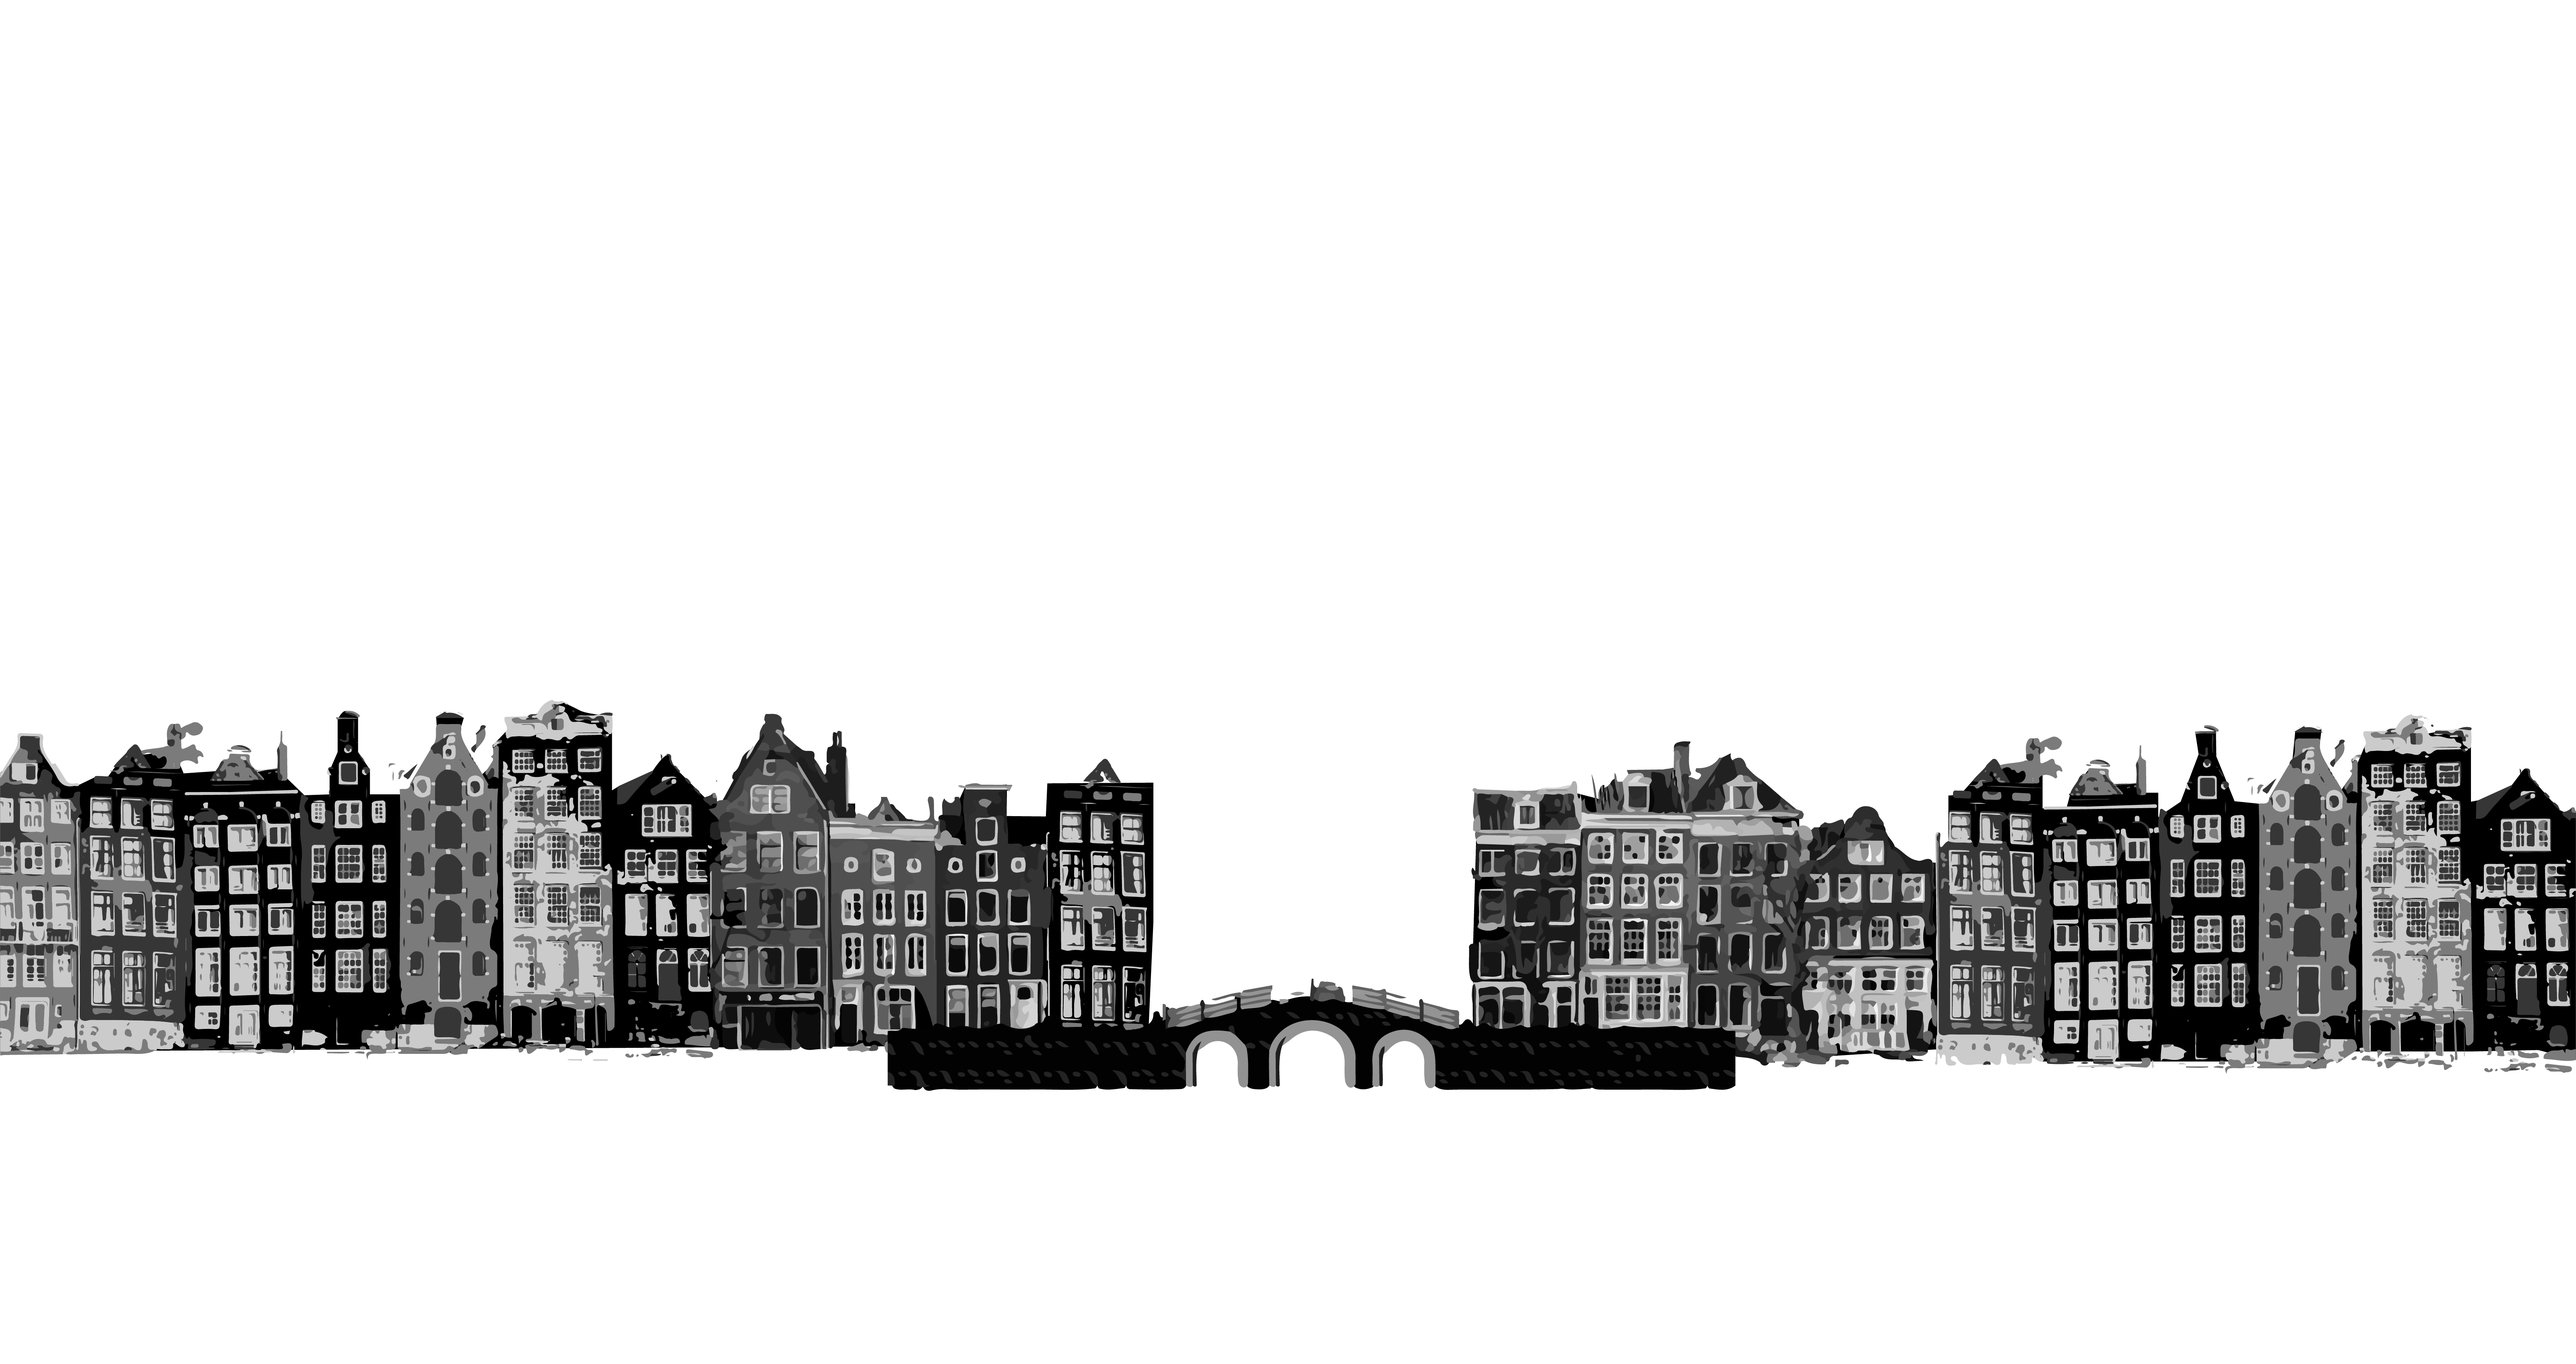
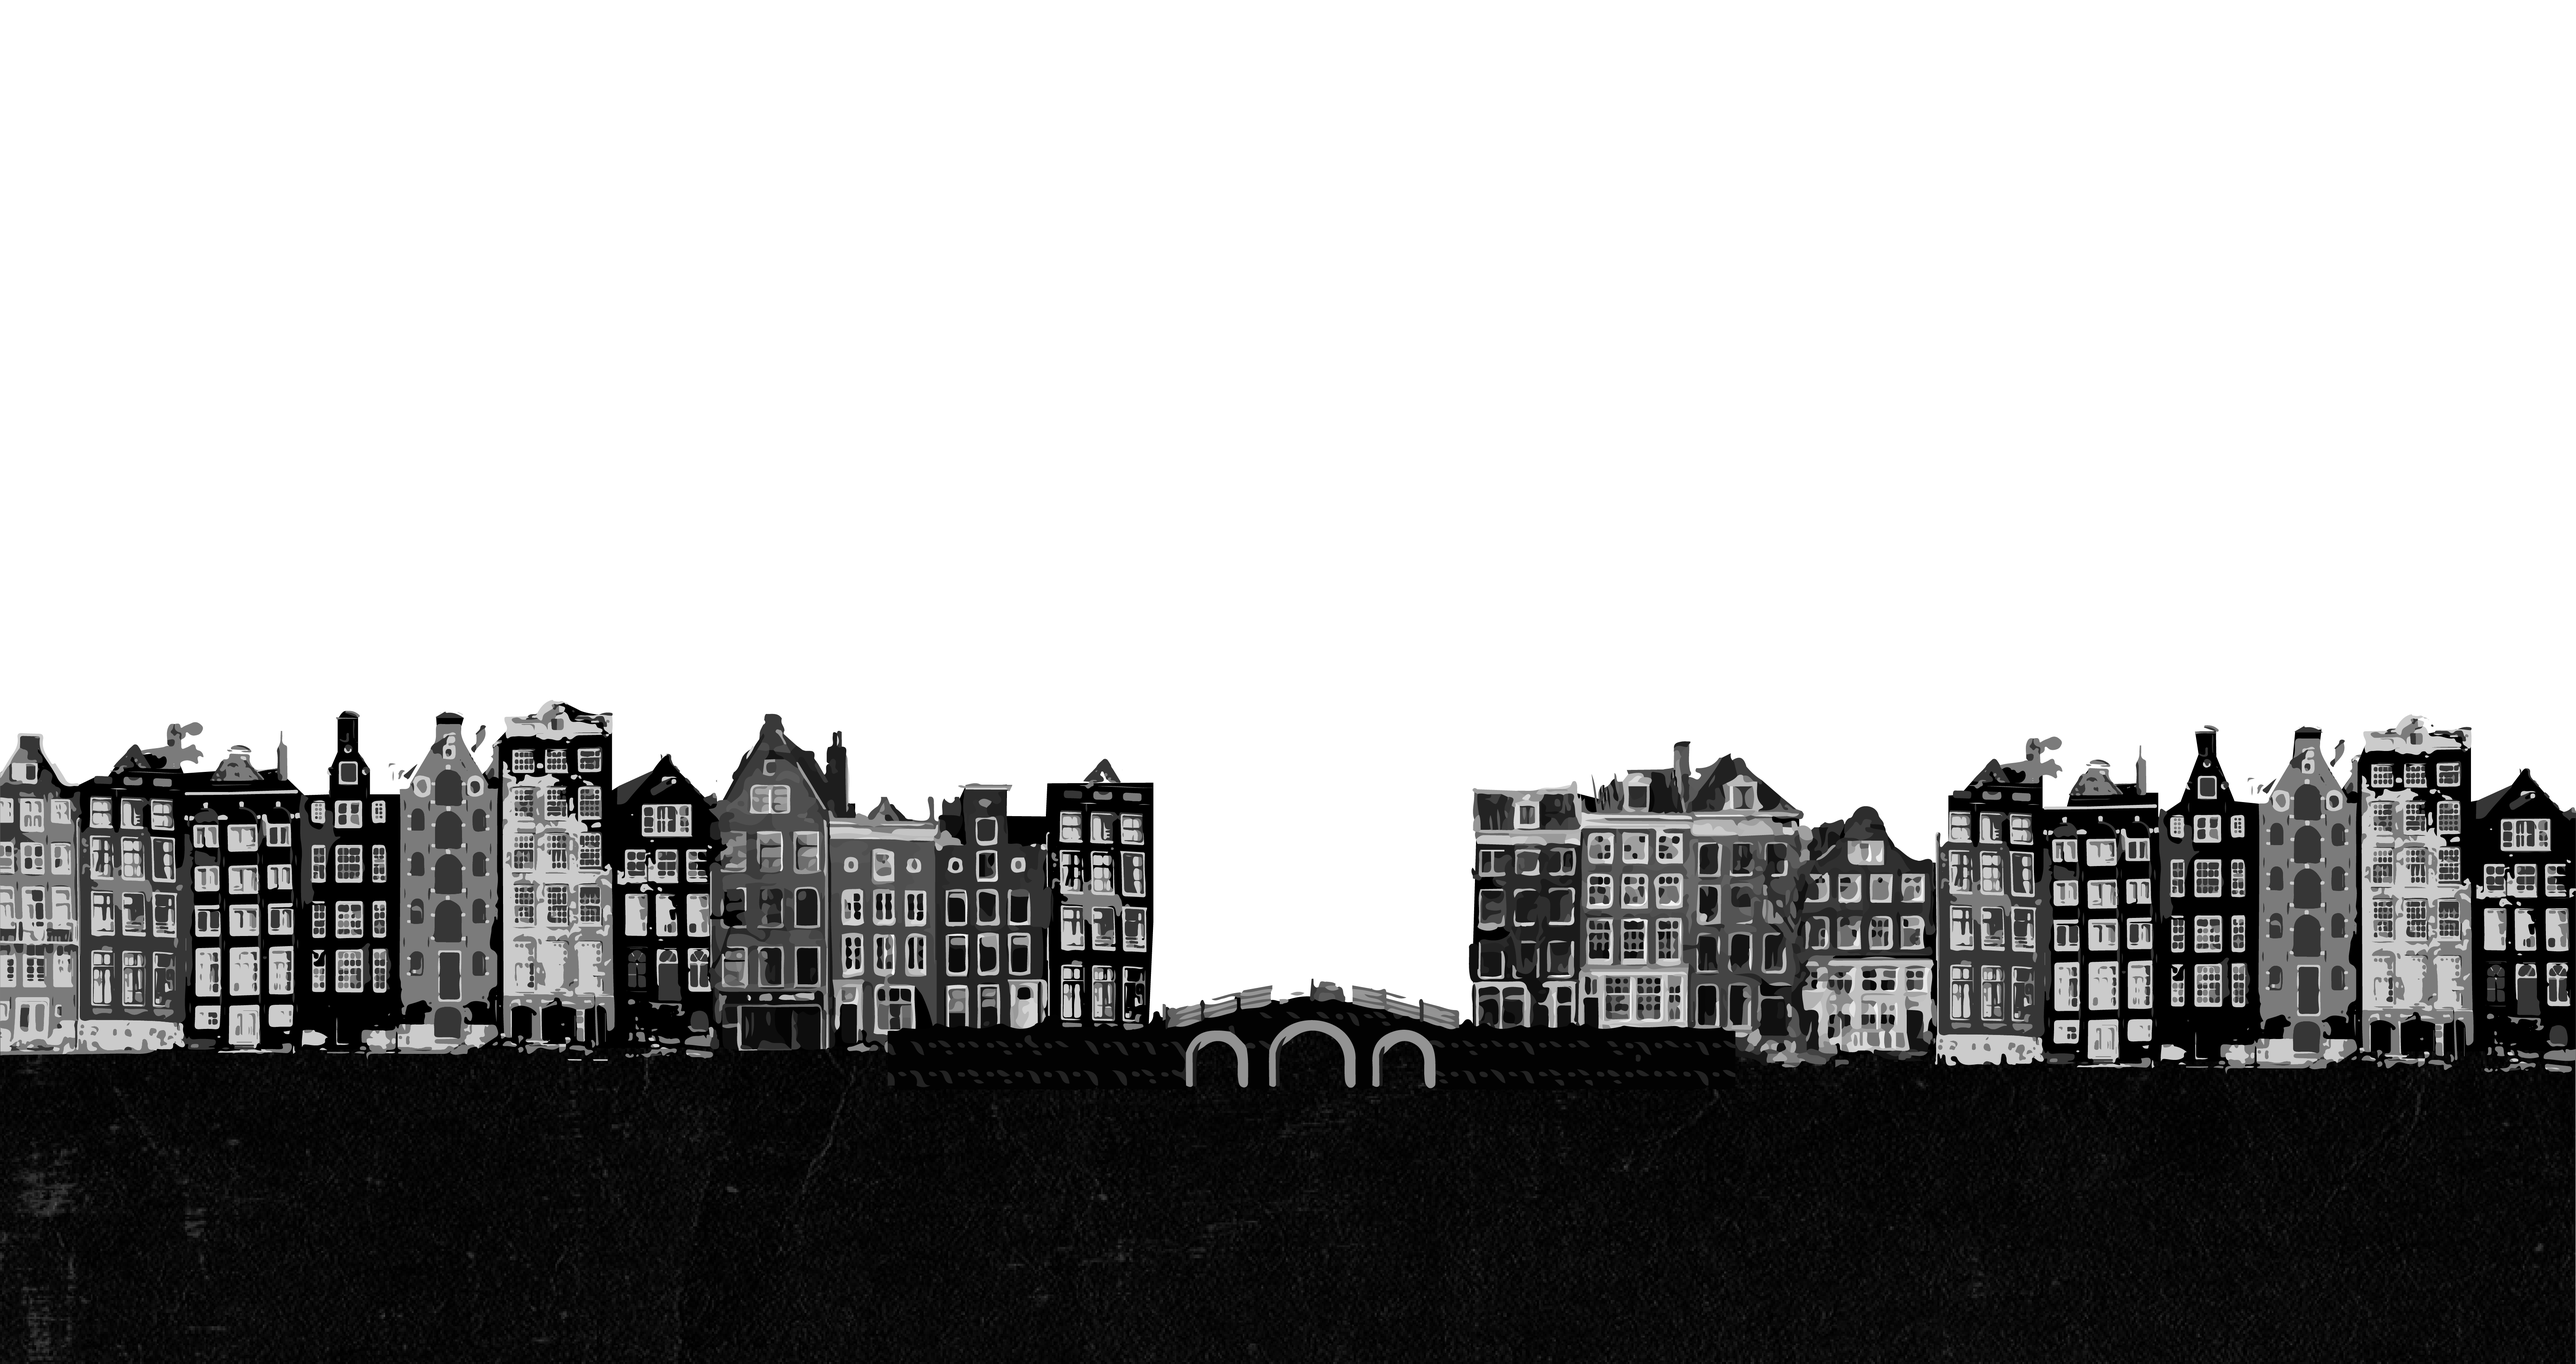
Update

Changed region(s): [[0.0, 0.7431, 0.9998, 1.0]]

diff --git a/style.css b/style.css
@@ -72,6 +72,7 @@ main {
   position: absolute;
   margin-left: 10vw;
   margin-top: 5vw;
+  z-index: -3;
 }
 
 .title {
@@ -262,14 +263,16 @@ main {
   perspective-origin: 0%;
   overflow-y: scroll;
   overflow-x: hidden;
+
+  background-color: blue;
+
 }
 
-img {
+.parallax__layer img {
   position: absolute;
   left: 0;
   width: 1680px;
 }
-
 
 .titlewrapper {
   margin-top: -180vh;
@@ -307,19 +310,23 @@ img {
 
 .parallax__cover{
   background-image: url("images/BG.png");
-  /* background-repeat: no-repeat; */
-  background-size: 100vw 100vh;
-  /* background: #2D112B; */
+  background-repeat: no-repeat;
+  background-size: 100%;
   display: block;
   position: absolute;
-  top: 70%;
+  top: 30vw;
   left: 0;
   right: 0;
-  height: 2000px;
+  height: 35vh;
   z-index: 2;
 
-  margin-top: 69vh;
+  margin-top: 40vh;
 
-  transform-origin: 0;
-  transform: translateZ(-2px) scale(1.5);
+  /* transform-origin: 0;
+  transform: translateZ(-2px) scale(1); */
+}
+
+.police {
+  position: relative;
+  width: 10vw;
 }

diff --git a/index.html b/index.html
@@ -40,9 +40,14 @@
       <div class="parallax__cover"></div>
 
 
+
+      <img class="police" src="images/police.png" />
+
   </main>
-
-
+<p>dklfa</p>
+<p>dklfa</p>
+<p>dklfa</p>
+<p>dklfa</p>
 
     <script src="index.js"></script>
 
